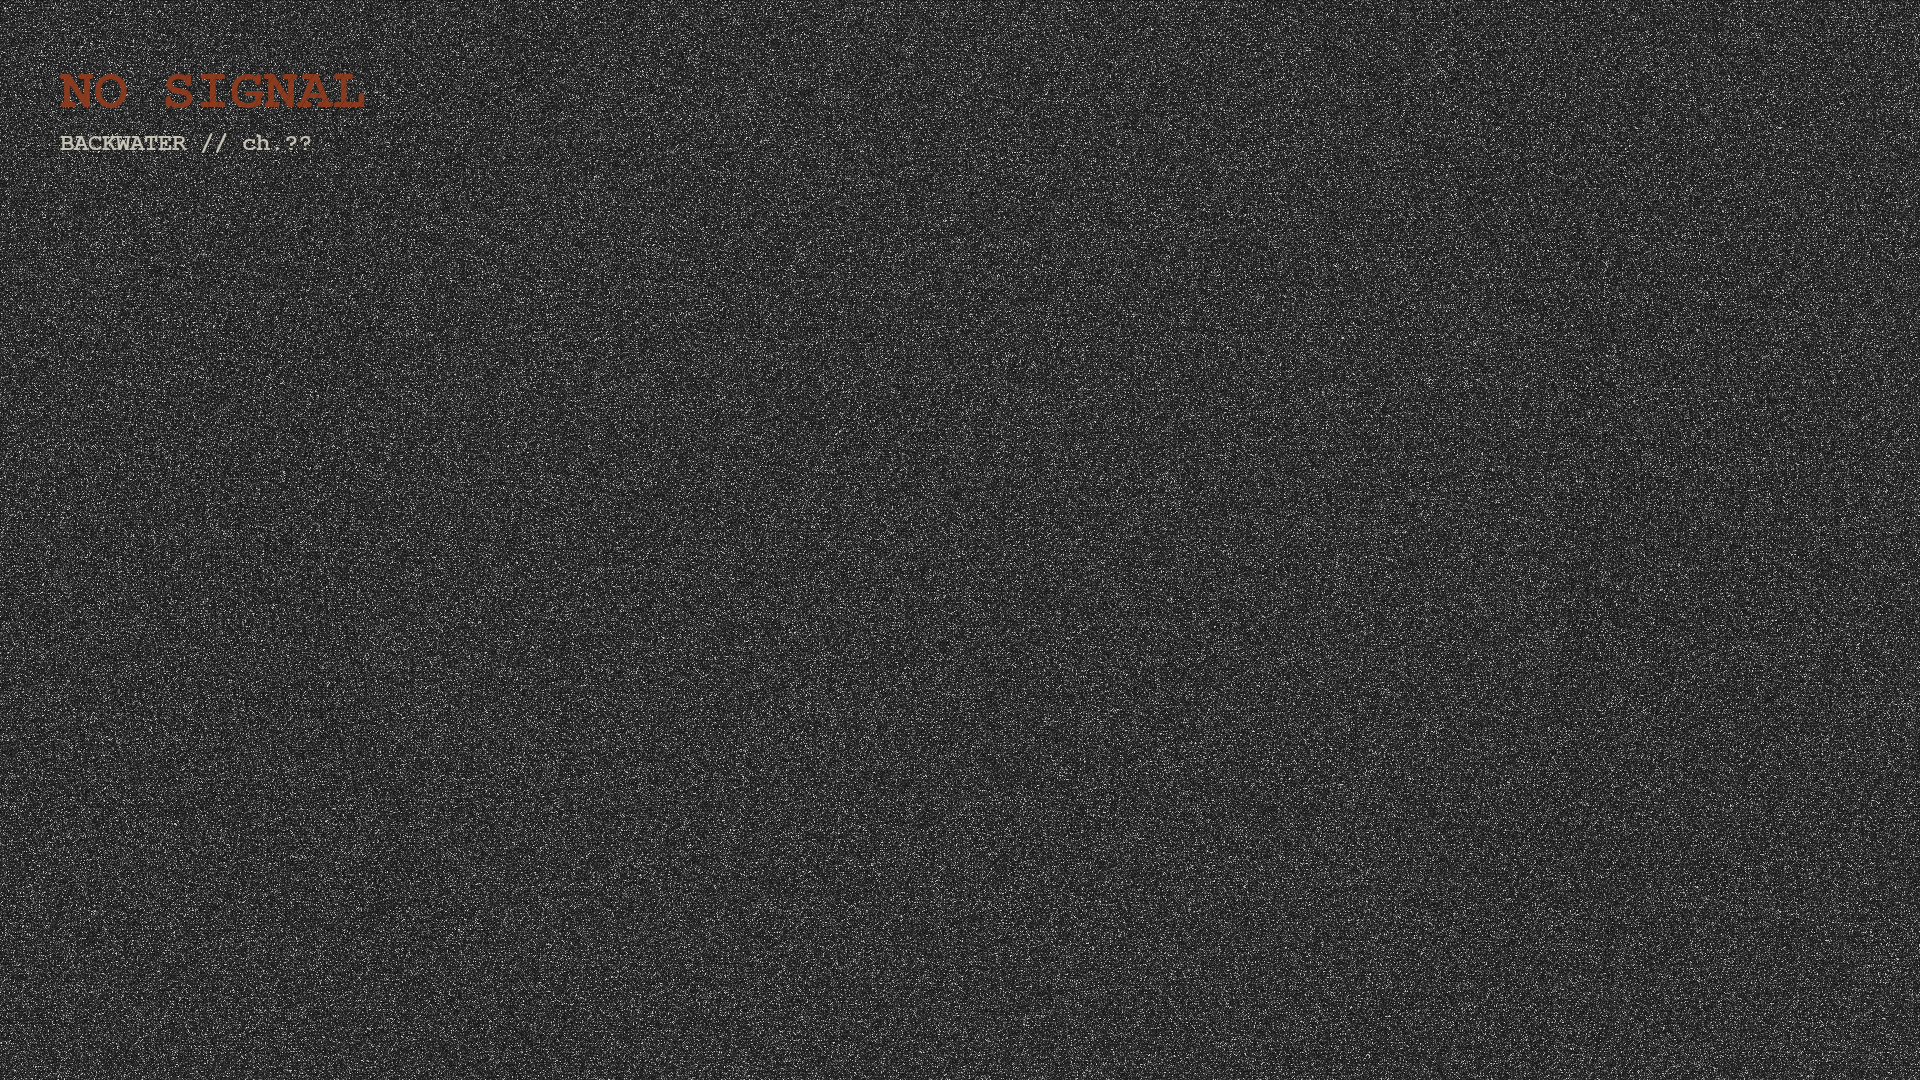
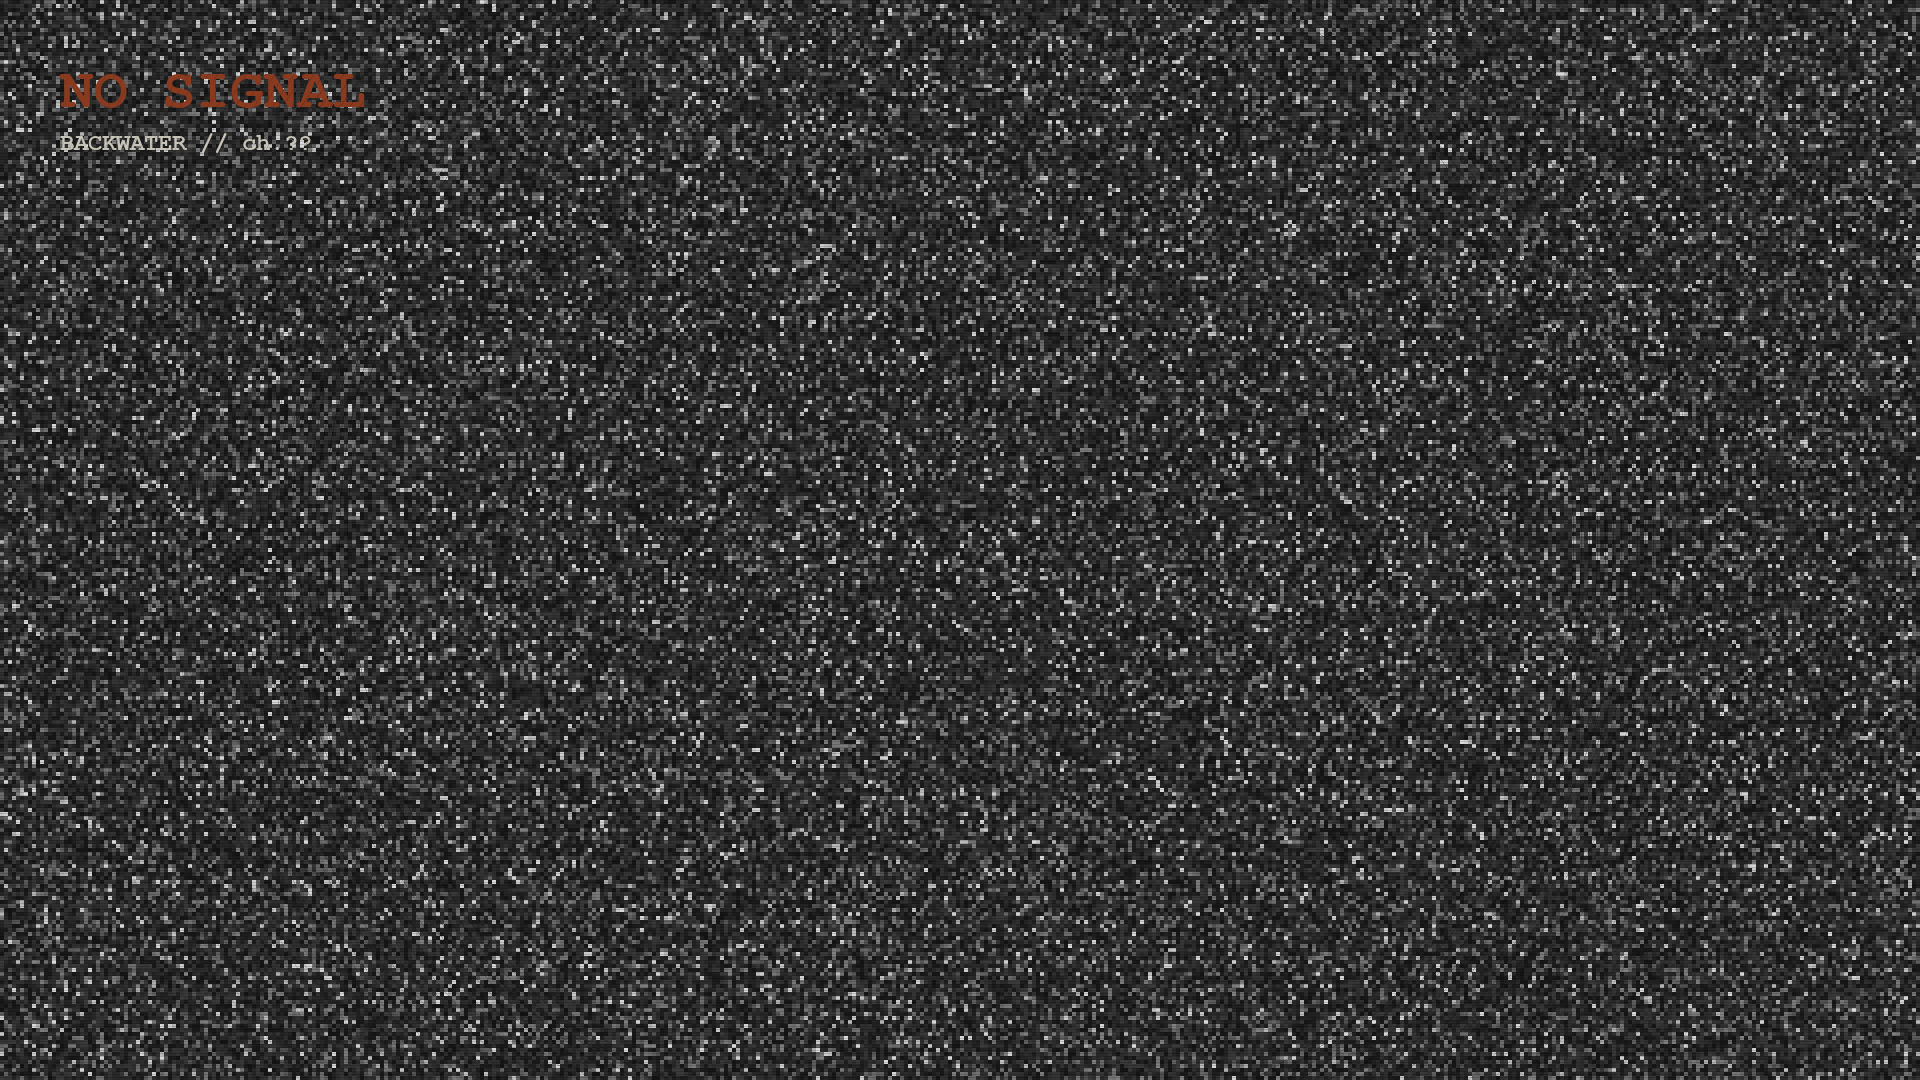
site: 4x smaller static wallpaper + PWA manifest
wallpaper_static.png: generated at 1/4 resolution then upscaled
with nearest-neighbor, producing chunky PS1-style static that
reads better and compresses ~4x better. 3835 KB -> 917 KB.

manifest.webmanifest — minimal PWA manifest so the site is
"installable" to a phone homescreen as a real-feeling icon.
Theme + background both bw-bg. Linked from index.html.

diff --git a/index.html b/index.html
@@ -6,6 +6,7 @@
     <meta name="viewport" content="width=device-width, initial-scale=1.0" />
     <meta name="theme-color" content="#0a0b0e" />
     <meta name="color-scheme" content="dark" />
+    <link rel="manifest" href="/manifest.webmanifest" />
     <title>BACKWATER // a server graveyard</title>
     <meta name="description" content="Backwater — a twitchy 1v1 shooter on top of a server graveyard. Lo-fi, half-correct maps. Eight artifacts. One signature mode: Memoryhold." />
     <meta name="author" content="bdrmega &amp; liam" />

diff --git a/tools/gen_wallpapers.py b/tools/gen_wallpapers.py
@@ -274,10 +274,14 @@ def wallpaper_liminalpool() -> Image.Image:
 
 def wallpaper_static() -> Image.Image:
     rng = random.Random(99)
-    img = Image.new("RGB", (W, H), P["bg"])
-    px = img.load()
-    for y in range(H):
-        for x in range(W):
+    # Generate static at 1/4 resolution then upscale with nearest-neighbor.
+    # This produces "chunky" PS1-style static that compresses ~30x better
+    # than per-pixel noise. The dither.css overlay handles the rest.
+    small_w, small_h = W // 4, H // 4
+    small = Image.new("RGB", (small_w, small_h), P["bg"])
+    spx = small.load()
+    for y in range(small_h):
+        for x in range(small_w):
             r = rng.randrange(255)
             if r < 200:
                 v = rng.randrange(20, 60)
@@ -285,7 +289,8 @@ def wallpaper_static() -> Image.Image:
                 v = rng.randrange(80, 130)
             else:
                 v = rng.randrange(170, 220)
-            px[x, y] = (v, v, v)
+            spx[x, y] = (v, v, v)
+    img = small.resize((W, H), Image.NEAREST)
     img = add_scanlines(img, opacity=40)
     d = ImageDraw.Draw(img)
     text(d, (60, 60), "NO SIGNAL", P["rust"], size=56)